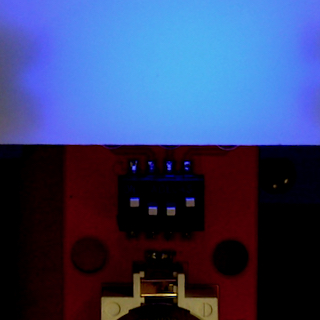
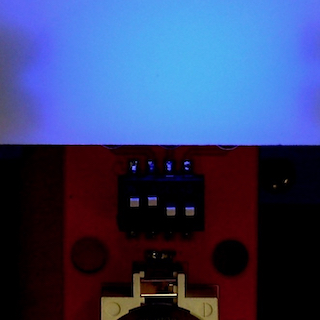
Switched color order to BRG

diff --git a/surface-mount/index.html b/surface-mount/index.html
@@ -527,10 +527,19 @@
               </li>
               <li>
                 <figure>
+                  <img src="images/test-blue.jpeg" />
+                  <figcaption>
+                    <h2>Test blue</h2>
+                    <p>Flip switches to on-on-off-off; both LEDs should be blue.</p>
+                  </figcaption>
+                </figure>
+              </li>
+              <li>
+                <figure>
                   <img src="images/test-red.jpeg" />
                   <figcaption>
                     <h2>Test red</h2>
-                    <p>Flip switches to on-on-off-off; both LEDs should be red.</p>
+                    <p>Flip switches to on-off-on-off; both LEDs should be red.</p>
                   </figcaption>
                 </figure>
               </li>
@@ -539,16 +548,7 @@
                   <img src="images/test-green.jpeg" />
                   <figcaption>
                     <h2>Test green</h2>
-                    <p>Flip switches to on-off-on-off; both LEDs should be green.</p>
-                  </figcaption>
-                </figure>
-              </li>
-              <li>
-                <figure>
-                  <img src="images/test-blue.jpeg" />
-                  <figcaption>
-                    <h2>Test blue</h2>
-                    <p>Flip switches to on-off-off-on; both LEDs should be blue.</p>
+                    <p>Flip switches to on-off-off-on; both LEDs should be green.</p>
                   </figcaption>
                 </figure>
               </li>
@@ -565,6 +565,19 @@
               <li>
                 <div>
                   <h2>
+                    <svg class="fa-circle" style="color: #23b260"><use xlink:href="#fa-circle"></use></svg>
+                    <svg class="fa-circle" style="color: #288a7f"><use xlink:href="#fa-circle"></use></svg>
+                    Green / teal or<br />
+                    <svg class="fa-circle" style="color: #ff3b37"><use xlink:href="#fa-circle"></use></svg>
+                    <svg class="fa-circle" style="color: #b5004d"><use xlink:href="#fa-circle"></use></svg>
+                    Red / purple
+                  </h2>
+                  <p>Desolder the solder jumper #1 and solder in tilt switch #1.</p>
+                </div>
+              </li>
+              <li>
+                <div>
+                  <h2>
                     <svg class="fa-circle" style="color: #4547ff"><use xlink:href="#fa-circle"></use></svg>
                     <svg class="fa-circle" style="color: #b5004d"><use xlink:href="#fa-circle"></use></svg>
                     Blue / purple or <br />
@@ -572,7 +585,7 @@
                     <svg class="fa-circle" style="color: #f5a447"><use xlink:href="#fa-circle"></use></svg>
                     Green / yellow
                   </h2>
-                  <p>Desolder the solder jumper #1 and solder in tilt switch #1.</p>
+                  <p>Desolder the solder jumper #2 and solder in tilt switch #2.</p>
                 </div>
               </li>
               <li>
@@ -584,19 +597,6 @@
                     <svg class="fa-circle" style="color: #ff3b37"><use xlink:href="#fa-circle"></use></svg>
                     <svg class="fa-circle" style="color: #f5a447"><use xlink:href="#fa-circle"></use></svg>
                     Red / yellow
-                  </h2>
-                  <p>Desolder the solder jumper #2 and solder in tilt switch #2.</p>
-                </div>
-              </li>
-              <li>
-                <div>
-                  <h2>
-                    <svg class="fa-circle" style="color: #23b260"><use xlink:href="#fa-circle"></use></svg>
-                    <svg class="fa-circle" style="color: #288a7f"><use xlink:href="#fa-circle"></use></svg>
-                    Green / teal or<br />
-                    <svg class="fa-circle" style="color: #ff3b37"><use xlink:href="#fa-circle"></use></svg>
-                    <svg class="fa-circle" style="color: #b5004d"><use xlink:href="#fa-circle"></use></svg>
-                    Red / purple
                   </h2>
                   <p>Desolder the solder jumper #3 and solder in tilt switch #3.</p>
                 </div>
